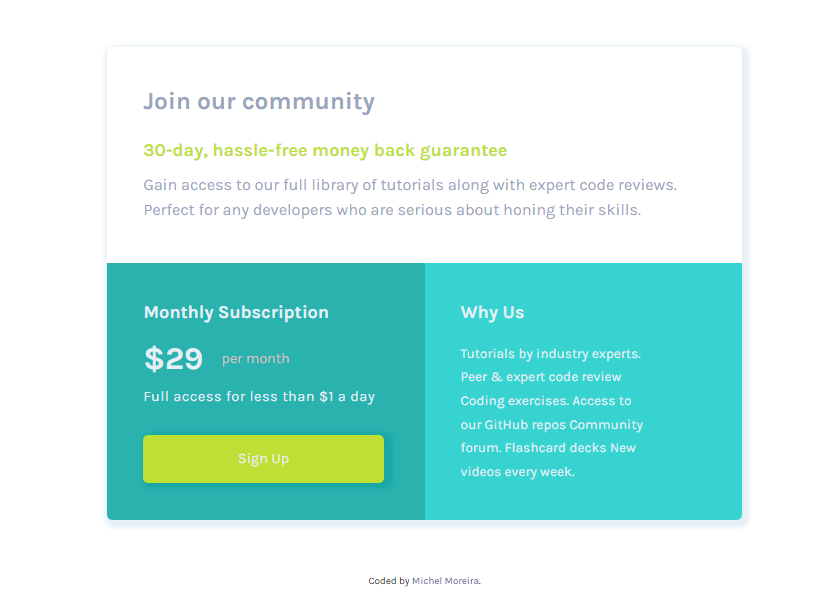
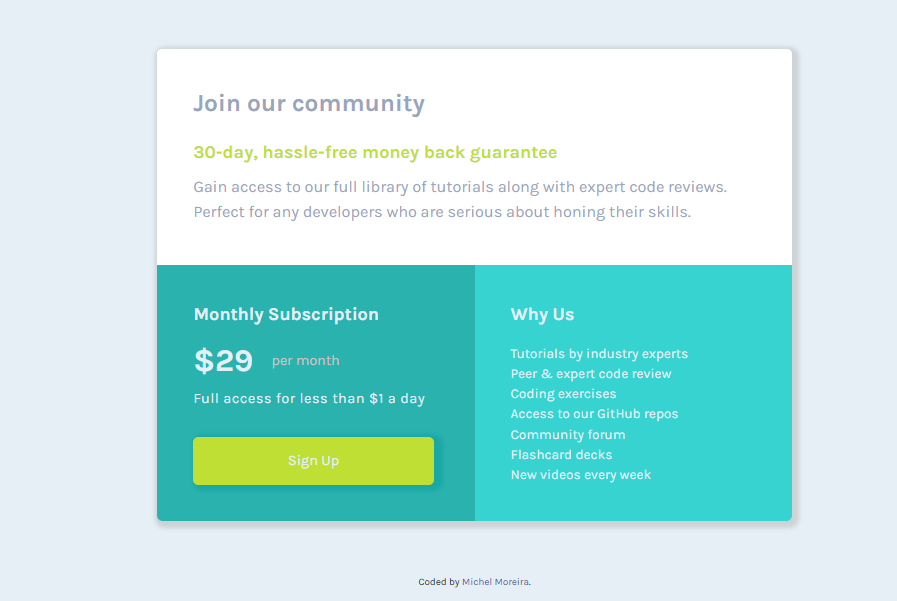
minor corrections

diff --git a/src/styles/style.css b/src/styles/style.css
@@ -6,6 +6,7 @@ body {
   font-size: 1.6rem;
   font-family: var(--font-family);
   margin: 6rem 0;
+  background-color: var(--light-gray);
 }
 /* ............................ */
 main {
@@ -23,15 +24,17 @@ main {
     "principal principal"
     "plan why-us";
   grid-template-columns: repeat(2, 1fr);
-  box-shadow: 3px 4px 5px 5px var(--light-gray);
-  border-radius: 0.6rem;
+  box-shadow: 3px 3px 5px 5px hsl(203, 9%, 82%);;
   max-width: 705px;
+  border-radius: 0.6rem;
 }
 
 /* ============================ */
 .container .principal {
+  border-radius: 0.6rem 0.6rem 0 0 ;
   grid-area: principal;
   padding: 4rem 7rem 4rem 4rem;
+  background-color: #fff;
 }
 .container .principal .title {
   color: var(--grayish-blue);

diff --git a/README.md b/README.md
@@ -36,7 +36,7 @@ Users should be able to:
 ### Links
 
 - Solution: [Frontend Mentor solution by Michel Moreira]()
-- Live Site: [Github pages]()
+- Live Site: [Github pages](https://michel-moreira.github.io/single-price-grid-component/)
 
 ## My process
 
